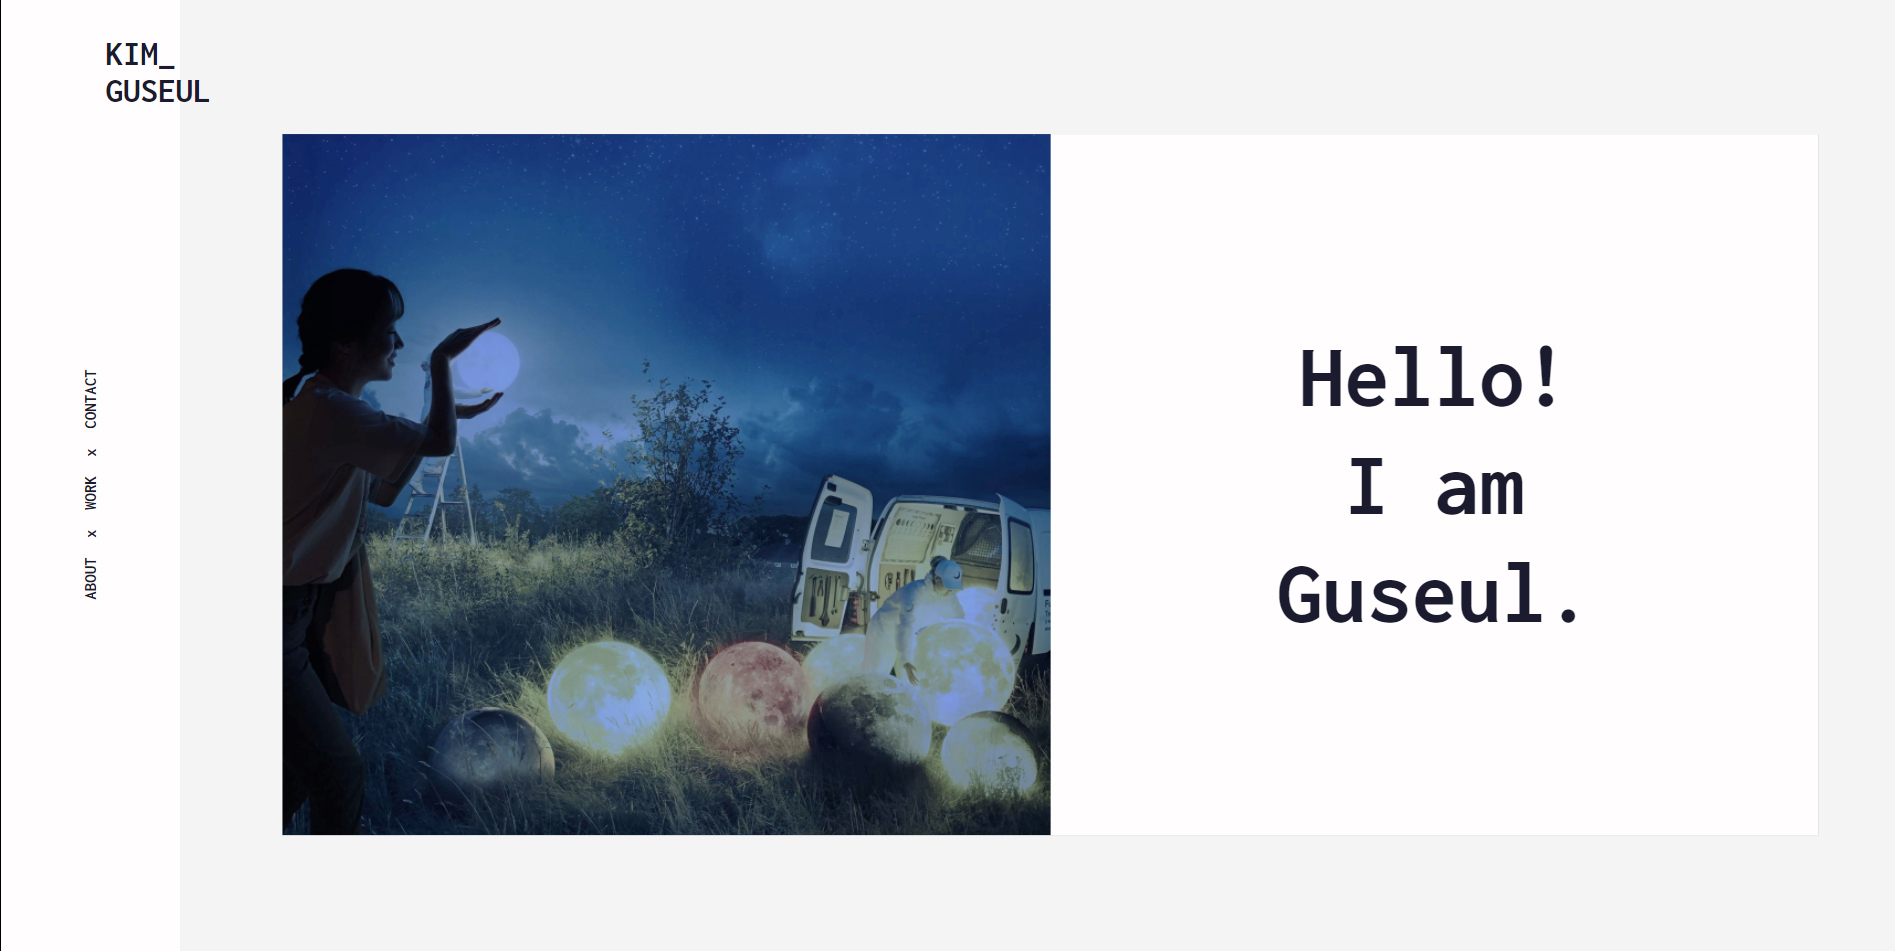
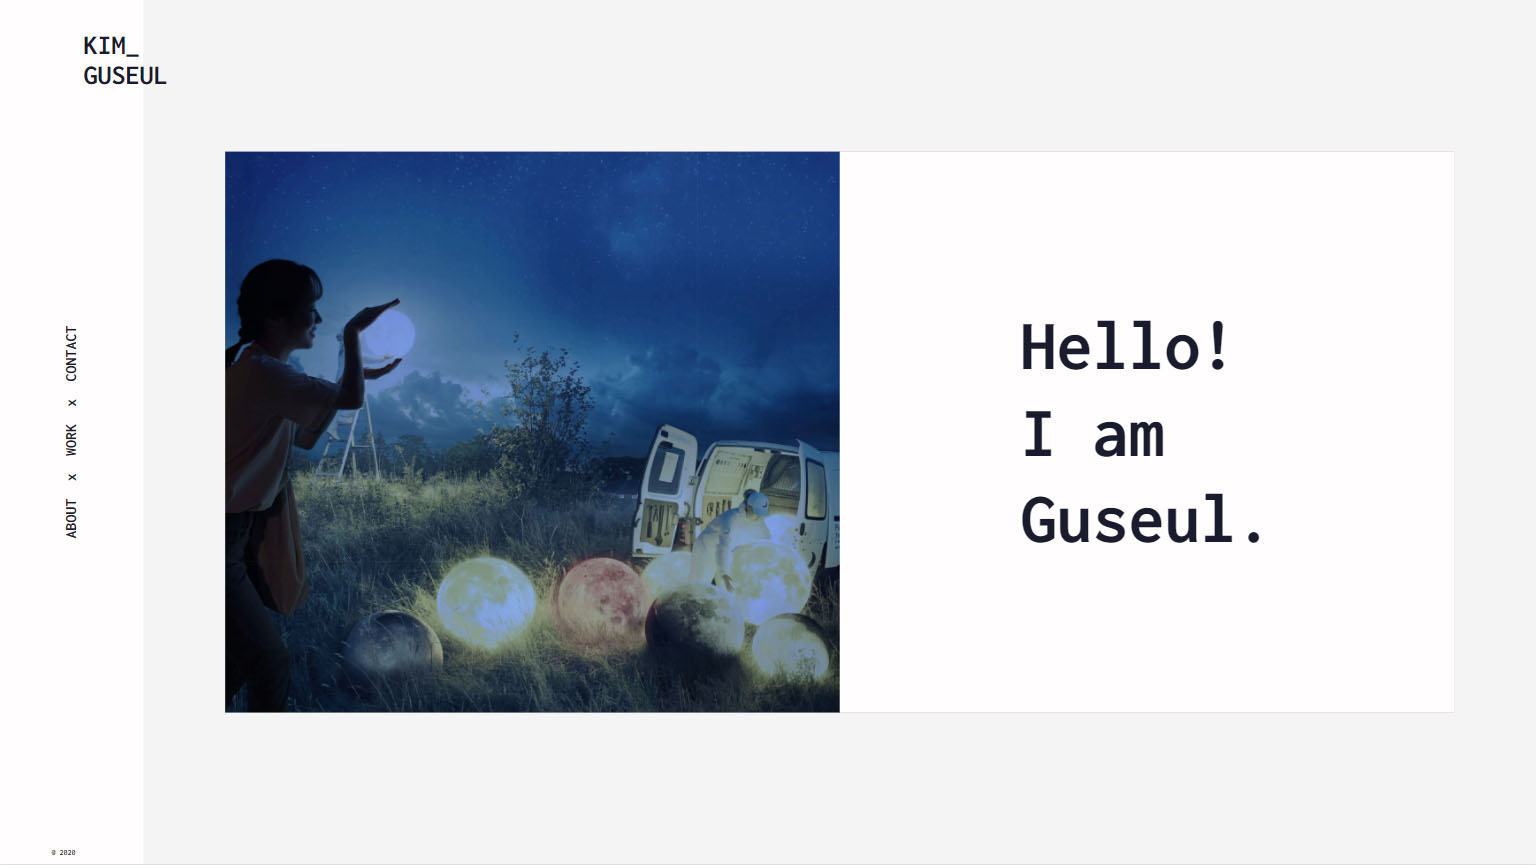
1203_work

diff --git a/js/work_detail.js b/js/work_detail.js
@@ -8,13 +8,14 @@ window.addEventListener('DOMContentLoaded', function () {
         data: {},
         success: function (data) {
             var tit, titTag='';
-            var link, date, work, tech, detail, infoTag = '';
+            var link, date, work, environ, tech, detail, develop, infoTag = '';
             var cImg, mImg, cTag, mTag = '';
             var total;
 
             function proList() {
                 
                 i=localStorage.num;
+                
 
                 tit = data.project[i].tit;
                 cImg = data.project[i].cImg;
@@ -22,13 +23,14 @@ window.addEventListener('DOMContentLoaded', function () {
                 link = data.project[i].link;
                 date = data.project[i].date;
                 work = data.project[i].work;
+                environ = data.project[i].environ;
                 tech = data.project[i].tech;
+                develop = data.project[i].develop;
                 detail = data.project[i].detail;
                 total = data.project.length;
                 
-            /*== title ==*/
-//                titTag ="<a href='work_detail.html' class='prev' data-num='"+i+"'></a>"+ tit +"<a href='work_detail.html' class='next' data-num='"+i+"'></a>";
                 
+            /*== title ==*/
                 titTag = tit;
                 
             /*=== preview ===*/
@@ -45,10 +47,15 @@ window.addEventListener('DOMContentLoaded', function () {
 
             /*== info ==*/
                 infoTag ="<div>";
-                infoTag +="<a href='"+ link +"' class='git' target='_blank'>Link</a>";
+                if(develop != ''){
+                    infoTag +="<a href='"+ link +"' class='git' target='_blank'>Site</a>";
+                }else{
+                    infoTag +="<a href='"+ link +"' class='git' target='_blank'>github</a>";
+                }
                 infoTag +="<div class='info_bref'>";
                 infoTag +="<p>|&nbsp;" + date + "</p>";
                 infoTag +="<p>|&nbsp;" + work + "</p>";
+                infoTag +="<p>|&nbsp;" + environ + "</p>";
                 infoTag +="<p>|&nbsp;" + tech + "</p>";
                 infoTag +="</div>";
                 infoTag +="<div class='info_detail'>" + detail + "</div>";

diff --git a/css/contact.css b/css/contact.css
@@ -18,7 +18,7 @@ main .con_cont{
 }
 main .cont_txt{
     height: 15vw;
-    position: relativere;
+    position: relative;
     transform: translateY(70%);
     display: flex;
     flex-direction: column;
@@ -33,14 +33,14 @@ main .cont_txt p{
     transition: .5s;
 }
 main .cont_txt p:nth-of-type(1){
-    transform: translateY(15vw);
+    transform: translateY(16vw);
 }
 main .cont_txt p:nth-of-type(2){
-    transform: translateY(15vw);
+    transform: translateY(16vw);
 }
 main .cont_txt p:nth-of-type(3){
     font-size: 5rem;
-    transform: translateY(15vw);
+    transform: translateY(16vw);
 }
 
 main .info_cont{
@@ -63,6 +63,48 @@ main .info_cont p{
 }
 main .info_cont p:nth-of-type(1){
     margin-left: 0;
+}
+
+/*==========================================================================*/
+@media (max-width:1024px){
+    h1{display: none;}
+    
+    main .hidden{
+        width: 100%; height: calc(100vh - 9.5vw);
+        transform: translateY(0);
+    }
+    main .con_cont{
+        position: relative;
+        top: 100%; left: 0;
+        width: 100%; height: 100%;
+    }
+
+    main .cont_txt p{
+        text-shadow: 0.2rem 0.2rem 0.4rem #000;
+    }
+    main .cont_txt p:nth-of-type(3){
+    display: none;
+}
+    main .info_cont{
+        width: 100%;height: 100%;
+        position: absolute;
+        bottom: 100%; left: 50%;
+        transform: translateX(-50%);
+        padding-left: 0;
+        background: none;
+        align-items: center;
+        justify-content: flex-end;
+        padding-bottom: 20vh;
+    }
+    main .info_cont p, main .info_cont p a{
+        color: #fffdfe;
+        font-size: 4rem;
+        line-height: 1.5;
+    }
+}
+
+@media (max-width:768px){
+    
 }
 
 

diff --git a/css/common.css b/css/common.css
@@ -40,7 +40,7 @@ header .navi{
     justify-content: center;
 }
 header .navi li{
-    font-size: 1.7rem;
+    font-size: 2rem;
 }
 header .navi li a{
     transition: .5s;
@@ -101,8 +101,51 @@ h1{
 }
 
 
+/*==========================================================================*/
+
 @media (max-width:1024px){
-html {font-size: 40%;}
+/*    html {font-size: 40%;}*/
+    header{
+        left: 0; top:0;
+        z-index: 15;
+        width: 100vw; height: 9.3vw;
+        transform:rotate(0);
+    }
+    header .logo{
+        display: inline-block;
+        width: 10%;
+        left: 3rem; bottom: 50%;
+        transform: translateY(50%) rotate(0);
+    }
+    header .footer{
+        display: none;
+    }
+    main{
+        width: 100vw; height: calc(100vh - 9.5vw);
+        transform: translateY(9.5vw);
+    }
+    main .contents{
+        width: 100%; height: 100%;
+        transform: translateY(0);
+        
+/*        border: 1px solid #f00;*/
+    }
+    main .hidden{
+        width: 100%; height: calc(100vh - 9.5vw);
+        overflow: hidden;
+        transform: translateY(0);
+        
+/*        border: 1px solid #000;*/
+    }
+    h1{
+        position: fixed;
+        top: 3vw; right:50%;
+        transform: translateX(50%);
+    }
+}
+
+@media (max-width:768px){
+    
 }
 
 

diff --git a/css/work_detail.css b/css/work_detail.css
@@ -5,22 +5,7 @@ html,body{-ms-overflow-style: none;}
 
 h1 {
     color: #1b1b2f; 
-/*    color: rgba(27,27,27,0.7); */
     z-index: 1;
-}
-
-h1 a{
-    display: inline-block;
-    width: 1.8rem; height: 3rem;
-    margin:0 2rem;
-}
-h1 .prev{
-    background: url('../img/ic_prev.png') no-repeat;
-    background-size: contain;
-}
-h1 .next{
-    background: url('../img/ic_next.png') no-repeat;
-    background-size: contain;
 }
 main .hidden {display: flex;}
 
@@ -40,6 +25,7 @@ main .con_viewer .note{
 }
 
 main .con_viewer .m_com{
+    position: relative;
     width: 100%; height: 100%;
 }
 main .con_viewer .m_com > img{
@@ -125,6 +111,17 @@ main .con_info .return img{
     height: 1.5rem;
     position: fixed;
     right: 2.5vw; bottom: 3vw;
+}
+
+/*==========================================================================*/
+@media (max-width:1024px){
+
+
+
+}
+
+@media (max-width:768px){
+    
 }
 
 

diff --git a/css/work.css b/css/work.css
@@ -98,4 +98,41 @@ main .hidden > div{
     color:rgba(150,150,150,0.8);
 }
 
+/*==========================================================================*/
+@media (max-width:1024px){
+
+    h1{top: 3vw;}
+    main .hidden{
+        display: flex;
+        flex-direction: column;
+        align-items: center;            
+    }
+    main .hidden > div{
+        margin-bottom: 12vw;
+    }
+    .scroll{display: none;}
+    .work{
+        display: block;
+        height: 30vh;
+        box-shadow: none;
+        margin-bottom: 1rem;
+    }
+    .work:nth-of-type(2n-1){
+        float:none;
+    }
+    .work:nth-of-type(2n){
+        float:none;
+        top:0;
+    }
+    
+    .work figure b, .work .bref, .work .order,.work:nth-of-type(2n-1) .bref {
+        display: none;
+    }
+
+}
+
+@media (max-width:768px){
+    
+}
+
 

diff --git a/css/index.css b/css/index.css
@@ -48,8 +48,35 @@ main .introduce{
 }
 main .introduce h3{
     font-size: 9rem;
-    text-align: center;
+    text-align: left;
     line-height: 1.2;
+}
+
+/*==========================================================================*/
+
+@media (max-width:1024px){
+    main .contents{
+    overflow: auto;
+    }
+    main .back_photo, main .back_intro{
+        display: none;
+    }
+    main .main_photo{
+        top: 100%; left: 0;
+        width: 100%; height: calc(100vh - 9.5vw);
+    }
+    main .introduce{
+        bottom: 100%; right: 0;
+        width: 100%;height: 100%;
+        background: none;
+    }
+    main .introduce h3{
+        color: #fffdfe;
+    }
+}
+
+@media (max-width:768px){
+    
 }
 
 

diff --git a/css/about.css b/css/about.css
@@ -225,10 +225,18 @@ table tr th:nth-of-type(2){
     margin-top: 2.4vw;
 }
 
+/*==========================================================================*/
+@media (max-width:1024px){
 
 
 
 
+
+}
+
+@media (max-width:768px){
+    
+}
 
 
 
